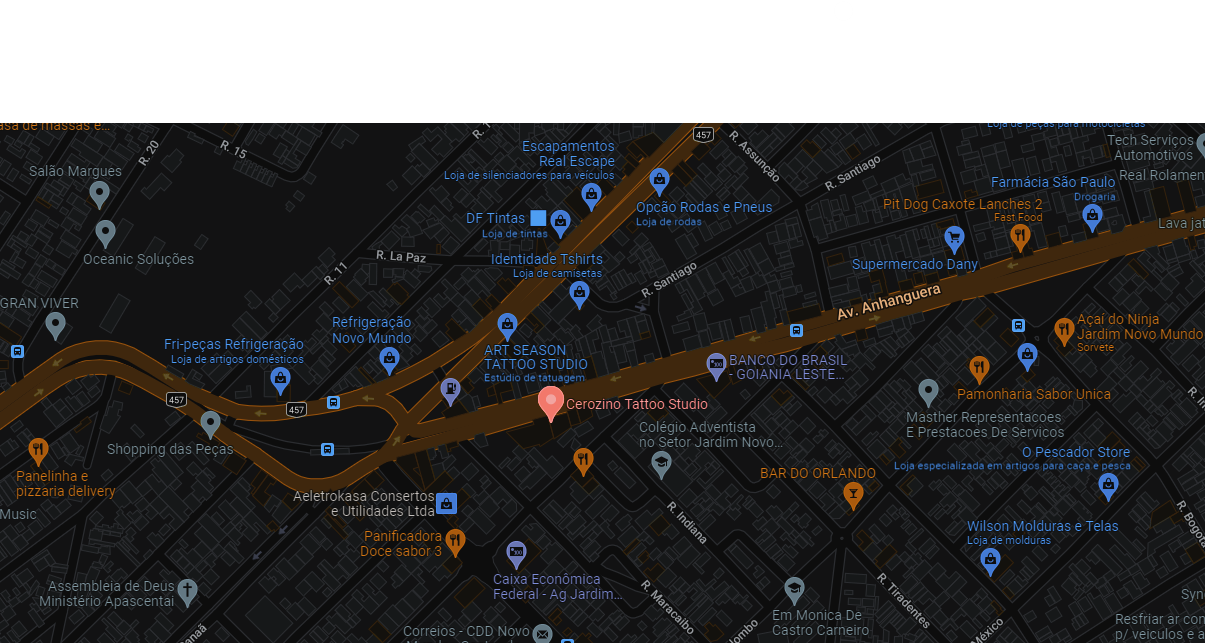
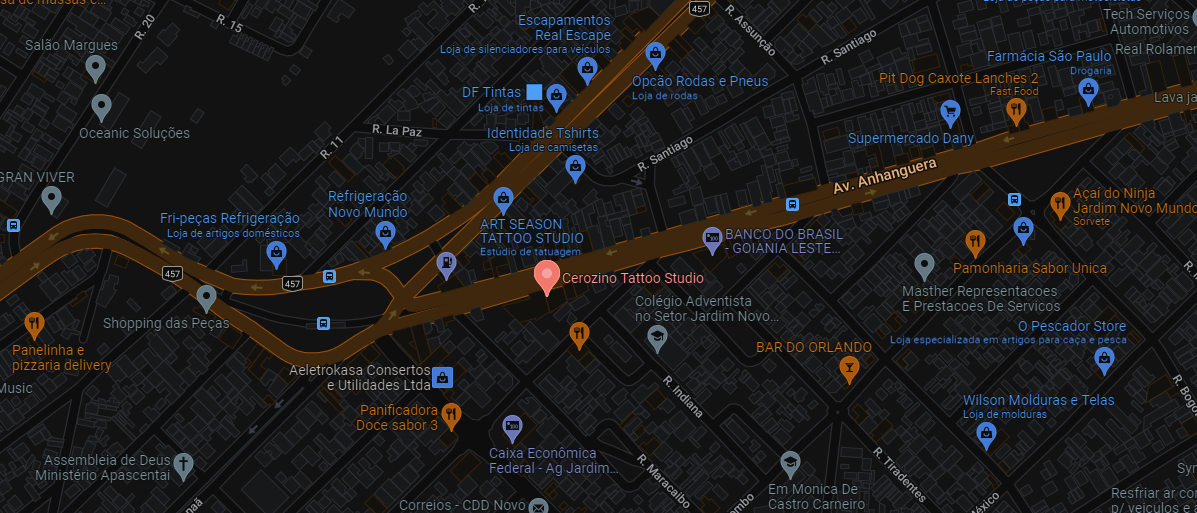
responsividade para tableti finalizada

diff --git a/index.html b/index.html
@@ -76,25 +76,29 @@
                 </div>
                 <div class="body">
                     <div class="services">
-                        <div class="sec_service">
-                            <div class="logo"></div>
-                            <div class="title">tattoo</div>
-                            <div class="serv_desc">Combinamos técnicas modernas com as tradicionais realizando um ótimo serviço.</div>
+                        <div class="area_service">
+                            <div class="sec_service">
+                                <div class="logo"></div>
+                                <div class="title">tattoo</div>
+                                <div class="serv_desc">Combinamos técnicas modernas com as tradicionais realizando um ótimo serviço.</div>
+                            </div>
+                            <div class="sec_service">
+                                <div class="logo img2"></div>
+                                <div class="title">tattoo cover</div>
+                                <div class="serv_desc">Cobrimos e removemos suas tatuagens utilizando os melhores equipamentos no mercado.</div>
+                            </div>
                         </div>
-                        <div class="sec_service">
-                            <div class="logo img2"></div>
-                            <div class="title">tattoo cover</div>
-                            <div class="serv_desc">Cobrimos e removemos suas tatuagens utilizando os melhores equipamentos no mercado.</div>
-                        </div>
-                        <div class="sec_service">
-                            <div class="logo img3"></div>
-                            <div class="title">piercing</div>
-                            <div class="serv_desc">Fazemos perfurações de piercing prezando o melhor cuidado para o cliente.</div>
-                        </div>
-                        <div class="sec_service">
-                            <div class="logo img4"></div>
-                            <div class="title">tattoo design</div>
-                            <div class="serv_desc">Está na dúvida sobre qual arte a ser feita? Conheça nosso seguro e confortável estúdio</div>
+                        <div class="area_service">
+                            <div class="sec_service">
+                                <div class="logo img3"></div>
+                                <div class="title">piercing</div>
+                                <div class="serv_desc">Fazemos perfurações de piercing prezando o melhor cuidado para o cliente.</div>
+                            </div>
+                            <div class="sec_service">
+                                <div class="logo img4"></div>
+                                <div class="title">tattoo design</div>
+                                <div class="serv_desc">Está na dúvida sobre qual arte a ser feita? Conheça nosso seguro e confortável estúdio</div>
+                            </div>
                         </div>
                     </div>
                 </div>

diff --git a/assets/style/home.css b/assets/style/home.css
@@ -200,6 +200,9 @@ nav a:hover{
     display: flex;
     flex-direction: row;
 }
+.services .area_service{
+    display: flex;
+}
 .services .sec_service{
     flex: 1;
     display: flex;
@@ -334,7 +337,6 @@ nav a:hover{
     width: 100vw;
     height: 400px;
     background-image: url('../img/map.png');
-    background-position: center;
     background-repeat: no-repeat;
     background-size: cover;
 }
@@ -475,4 +477,60 @@ footer .inf_contact{
 }
 .cont_day .day_sem:first-child{
     margin-top: 0;
+}
+
+
+/*responsividade*/
+
+@media (max-width: 800px){
+    
+    /*main*/
+    .services .area_service{
+        flex-direction: column;
+    }
+    .our_services .sec_service{
+        min-width: 45%;
+        margin-bottom: 10px;
+        border: none;
+    }
+
+    .services .sec_service:last-child{
+        border-right: none;
+    }
+    .body .desc{
+        max-width: 330px;
+        margin-left: 8px;
+        margin-right: 20px;
+    }
+    .body .slide{
+        max-width: 330px;
+        height: auto;
+        margin-right: 8px;
+    }
+    .tattoo .slide{
+        margin-left: 8px;
+        margin-right: 12px;
+    }
+    .tattoo .desc{
+        margin-right: 8px;
+    }
+    .piercing .slide{
+        margin-left: 8px;
+        margin-right: 12px;
+    }
+    .piercing .desc{
+        margin-right: 8px;
+    }
+
+    /*rodape*/ 
+
+    footer .inf_contact{
+        flex-direction: column;
+        justify-content: center;
+        align-items: center;
+    }
+    
+    .container .copy{
+        width: 100vw;
+    }
 }
